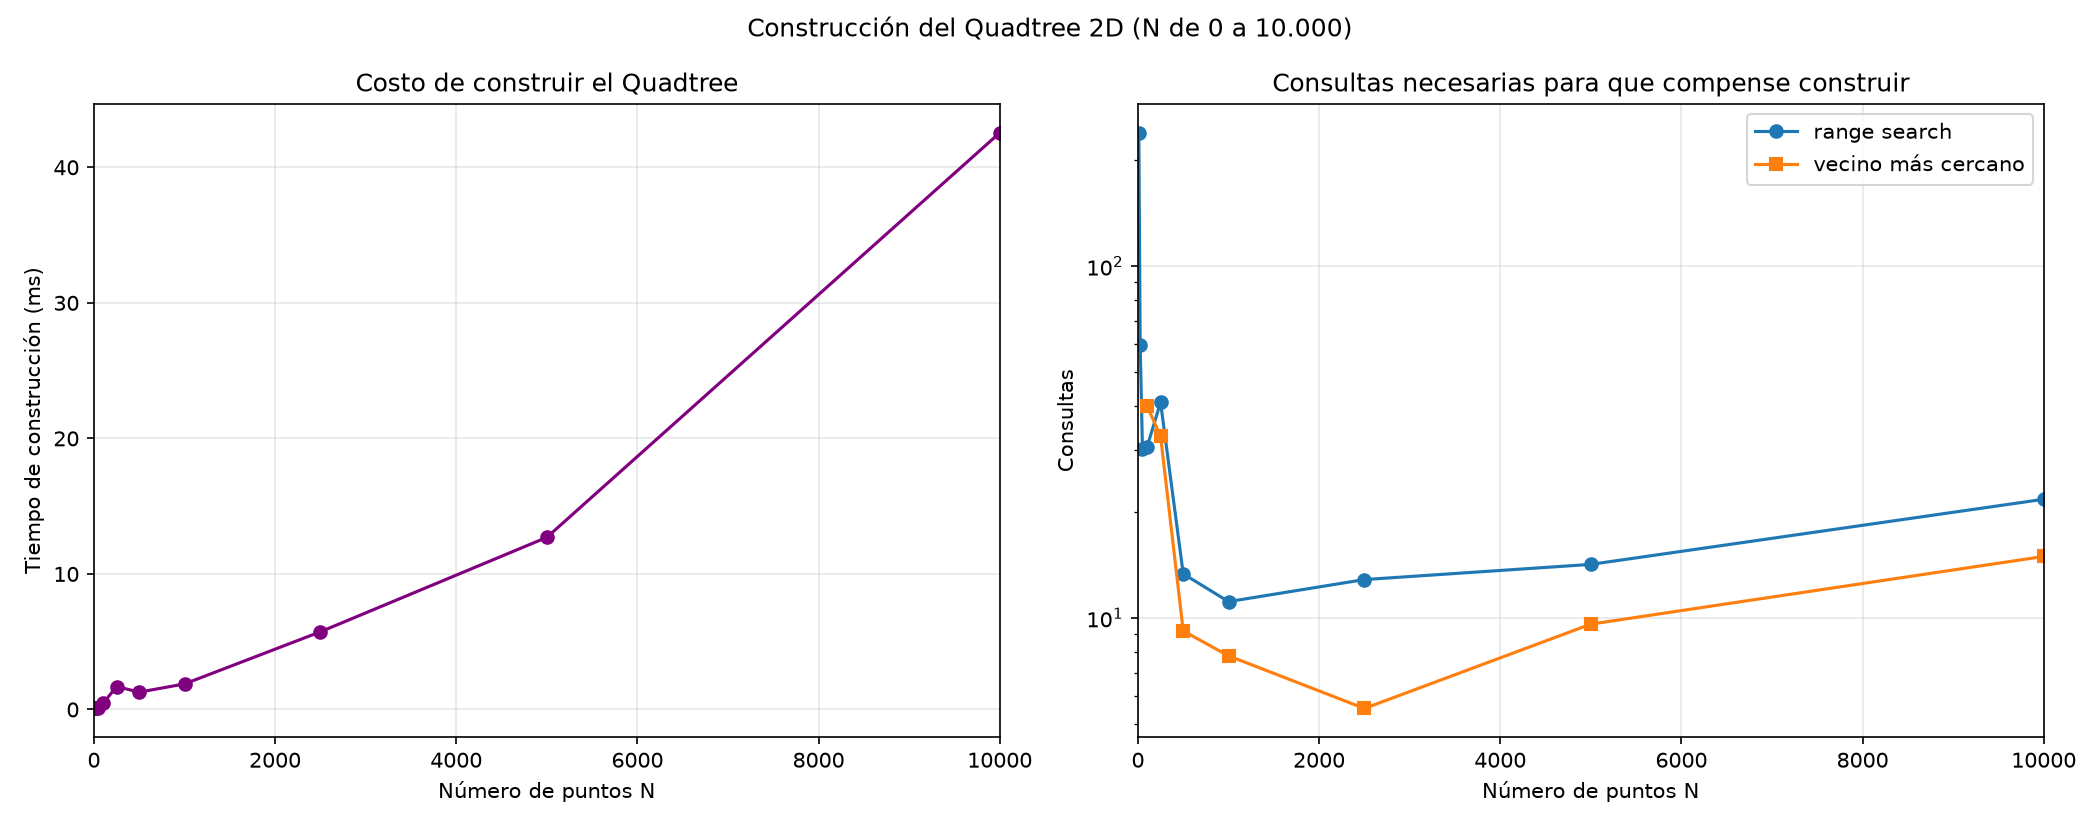
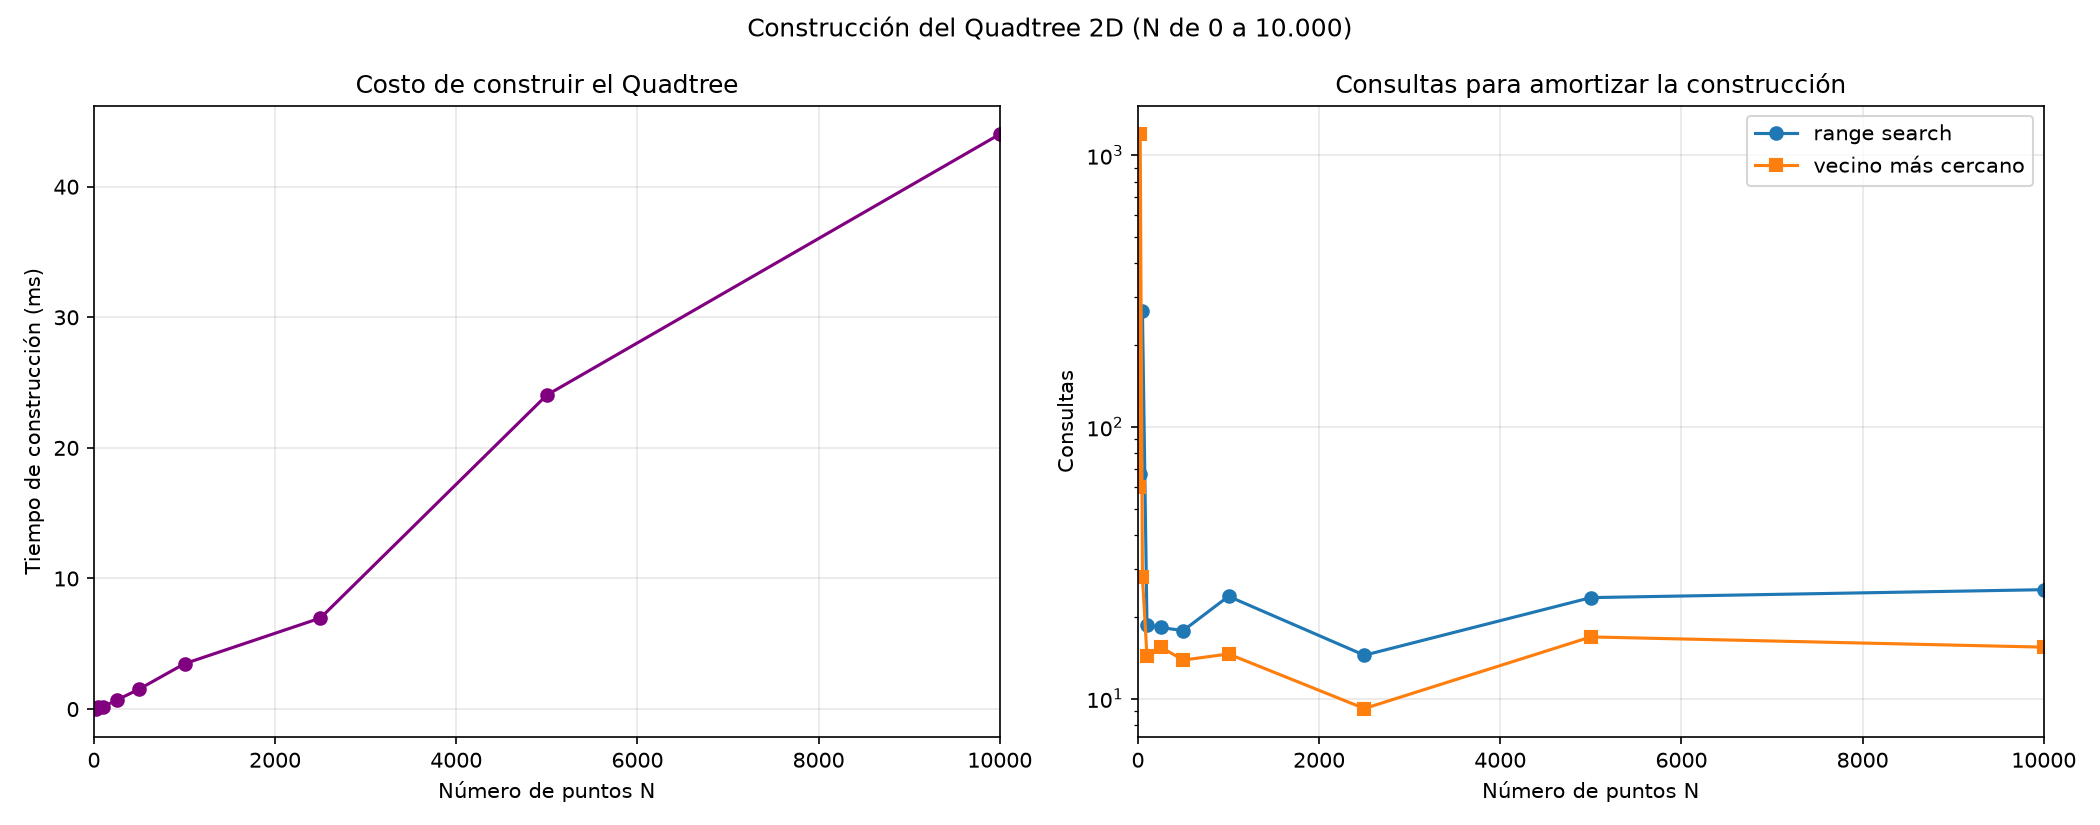
Arreglo de graficas
Correcion de datos en las graficas de construccion y rendimiento

diff --git a/analisis.py b/analisis.py
@@ -9,7 +9,7 @@ Para cada cantidad de puntos N se mide:
 
 Genera:
   resultados.csv
-    graficas/rendimiento.png        (tiempos y aceleración frente a fuerza bruta)
+    graficas/rendimiento.png        (tiempo por consulta en escala log-log)
   graficas/construccion.png       (costo de construir y consultas necesarias)
 Ejecutar:  python analisis.py
 """
@@ -138,6 +138,7 @@ def graficar_rendimiento(filas, ruta):
     for ax, (tiempo_qt, tiempo_bf, titulo) in zip(ejes, operaciones):
         ax.loglog(ns, [1000 * f[tiempo_qt] for f in filas], "o-", label="Quadtree")
         ax.loglog(ns, [1000 * f[tiempo_bf] for f in filas], "s-", label="Fuerza bruta")
+        ax.set_xlim(min(ns), max(ns))
         ax.set_title(titulo)
         ax.set_xlabel("Número de puntos N")
         ax.set_ylabel("Tiempo por consulta (ms)")
@@ -171,7 +172,7 @@ def graficar_construccion(filas, ruta):
     if pares_vecino:
         ejes[1].plot([p[0] for p in pares_vecino], [p[1] for p in pares_vecino],
                      "s-", label="vecino más cercano")
-    ejes[1].set_title("Consultas necesarias para que compense construir")
+    ejes[1].set_title("Consultas para amortizar la construcción")
     ejes[1].set_xlabel("Número de puntos N")
     ejes[1].set_ylabel("Consultas")
     ejes[1].set_yscale("log")
